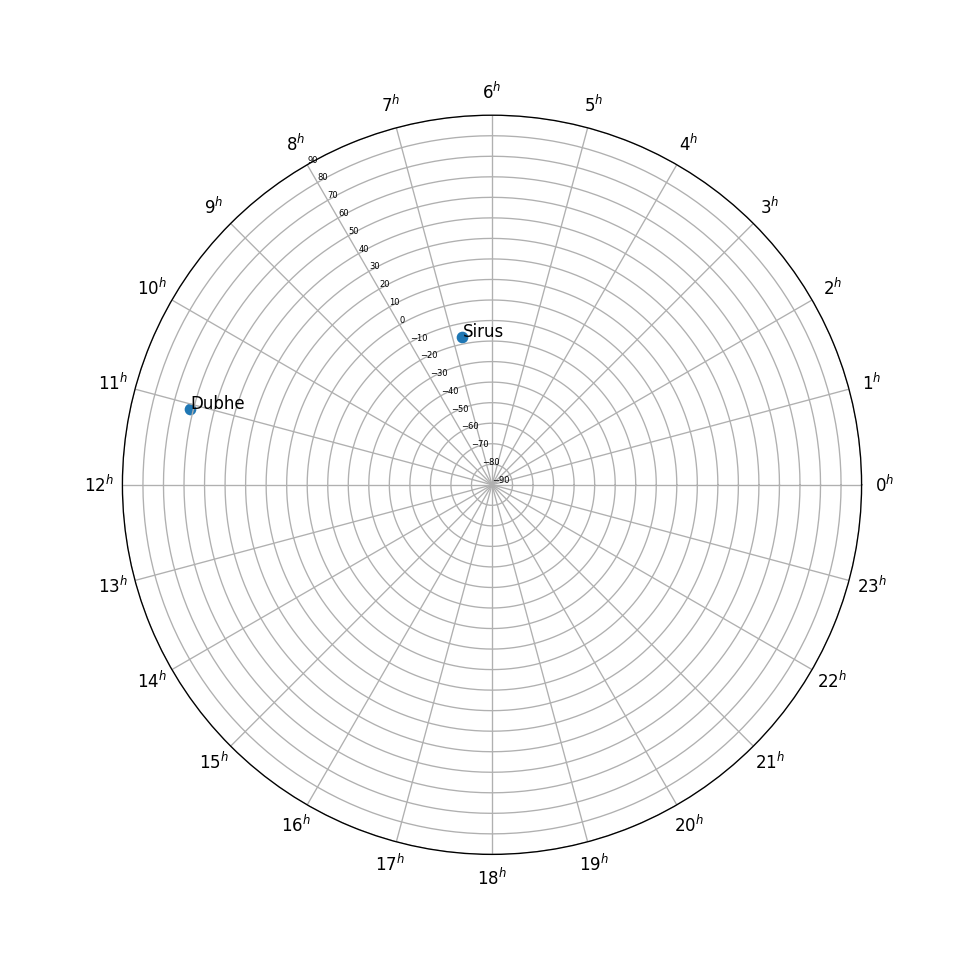
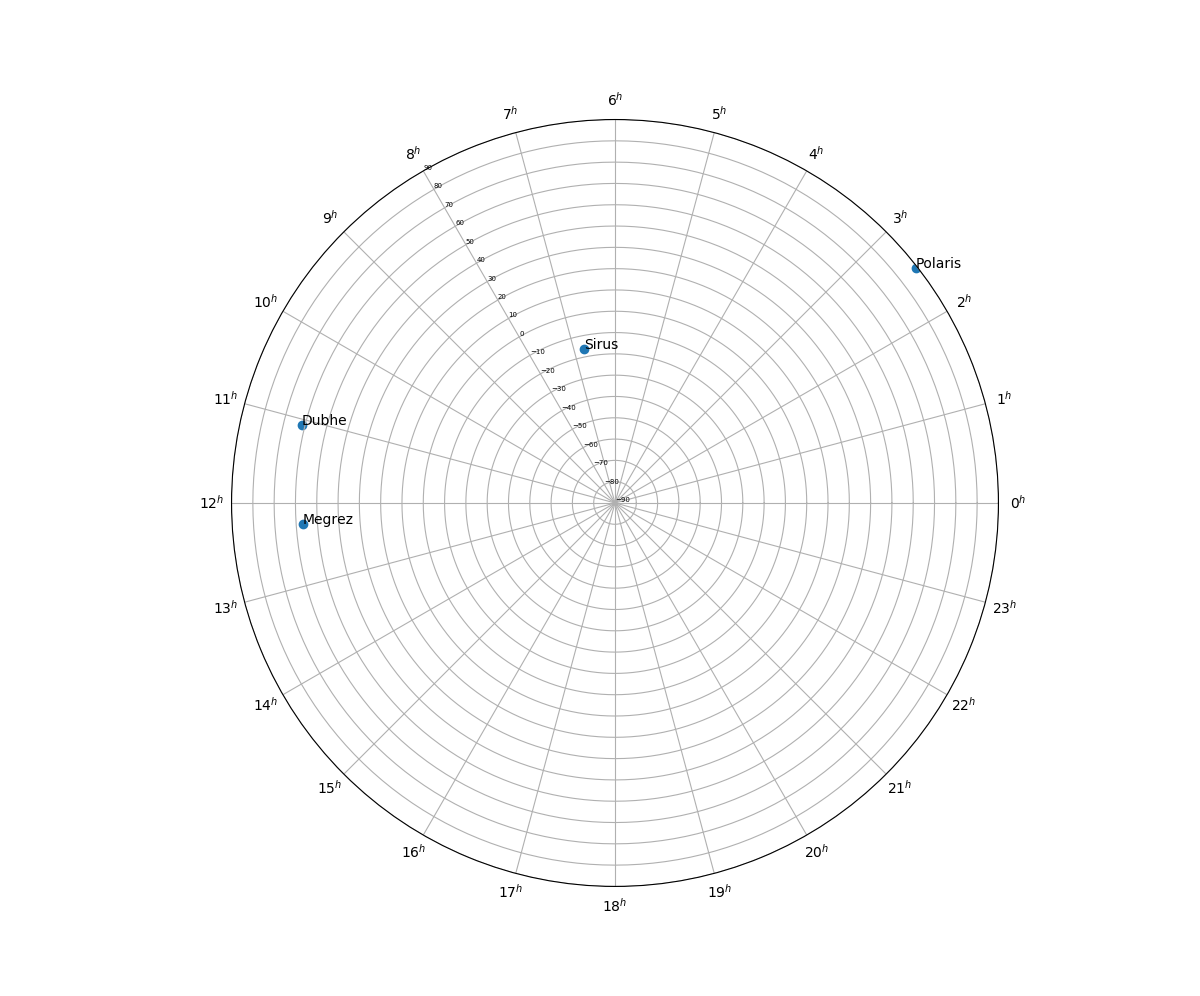
make star labels optional

diff --git a/page_x_astrolabe/generate_star_chart.py b/page_x_astrolabe/generate_star_chart.py
@@ -20,9 +20,9 @@ def convertRAhrtoRadians(star_list):
 		star[1] = ra_in_radians
 	return star_list
 
-def plotCircluar(star_list):
+def plotCircluar(star_list, displayStarNamesLabels, displayDeclinationMarks):
 	# plot star chart as a circular graph
-	fig = plt.figure(figsize=(8,8), dpi=120)
+	fig = plt.figure(figsize=(12,12), dpi=100)
 	ax = fig.subplots(subplot_kw={'projection': 'polar'})
 
 	# Set Right Ascension (astronomical 'longitude') as X
@@ -39,11 +39,12 @@ def plotCircluar(star_list):
 	# Set Declination (astronomical 'latitude') as Y
 	ax.set_ylim(-90, 90)
 	declination_values = np.arange(-90, 91, 10)
+	#if displayDeclinationMarks:
 	plt.yticks(declination_values, fontsize=5)
 	ax.set_rlabel_position(120)
 	#ax.set_yticklabels(['$-80^{\circ}$', '$-70^{\circ}$', '$-60^{\circ}$'], fontsize=10)
 	
-	# convert to x and y values
+	# convert to x and y values for stars
 	x_star_labels = []
 	x_ra_values = []
 	y_dec_values = []
@@ -54,23 +55,31 @@ def plotCircluar(star_list):
 	ax.scatter(x_ra_values, y_dec_values)
 
 	# label stars
-	for i, txt in enumerate(x_star_labels): 
-		ax.annotate(txt, (x_ra_values[i], y_dec_values[i]))
+	if displayStarNamesLabels:
+		for i, txt in enumerate(x_star_labels):
+			ax.annotate(txt, (x_ra_values[i], y_dec_values[i]))
 	plt.show()
 	fig.savefig('star_chart.png', dpi=fig.dpi)
 
 if __name__ == '__main__':
+	# stars to be included: 'name', ra HH.MM.SS, declination DD.SS
 	sirus_star = ["Sirus", "06.45.08", -16.42]
 	dubhe_star = ["Dubhe", "11.03.43", 61.45]
+	megrez_star = ["Megrez", "12.15.25", 57.01]
+	polaris_star = ["Polaris", "02.31.49", 89.15]
 
 	# add stars to total star list
 	star_chart_list = []
 	star_chart_list.append(sirus_star)
 	star_chart_list.append(dubhe_star)
+	star_chart_list.append(megrez_star)
+	star_chart_list.append(polaris_star)
 	
 	# Convert Star chart from RA hours to Radians to chart
 	print(star_chart_list)
 	star_chart_list = convertRAhrtoRadians(star_chart_list)
 	print(star_chart_list)
-	
-	plotCircluar(star_chart_list)
+
+	displayStarNames = True # display chart with star names
+	displayDeclinationMarks = False # display declination marks
+	plotCircluar(star_chart_list, displayStarNames, displayDeclinationMarks)
